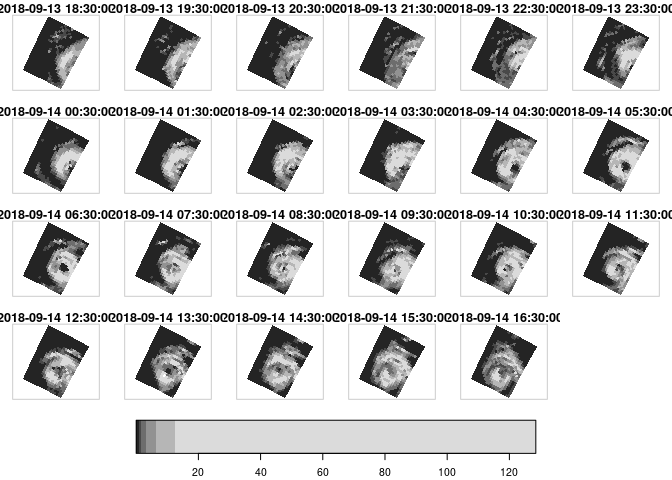
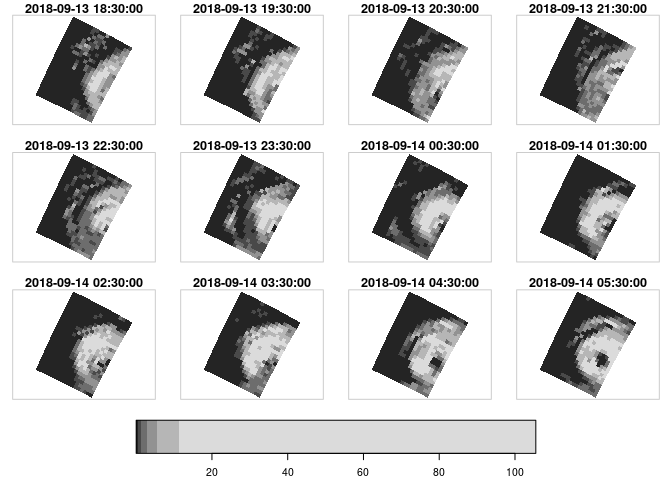
update

diff --git a/README.md b/README.md
@@ -37,7 +37,7 @@ library(stars)
 # Linking to GEOS 3.7.0, GDAL 2.4.0, PROJ 5.2.0
 tif = system.file("tif/L7_ETMs.tif", package = "stars")
 read_stars(tif) %>%
-  slice(prec, index = 1, along = "band") %>%
+  slice(index = 1, along = "band") %>%
   plot()
 ```
 
@@ -111,7 +111,9 @@ prec_file = system.file("nc/test_stageiv_xyt.nc", package = "stars")
 # y       NA   [87x118] 32.4413,...,37.6193 [y]
 # time    NA                           NULL    
 # curvilinear grid
-plot(prec, downsample = c(5, 5, 1))
+prec %>%
+  slice(index = 1:12, along = "time") %>%
+  plot(downsample = c(5, 5, 1))
 ```
 
 ![](images/unnamed-chunk-8-1.png)
